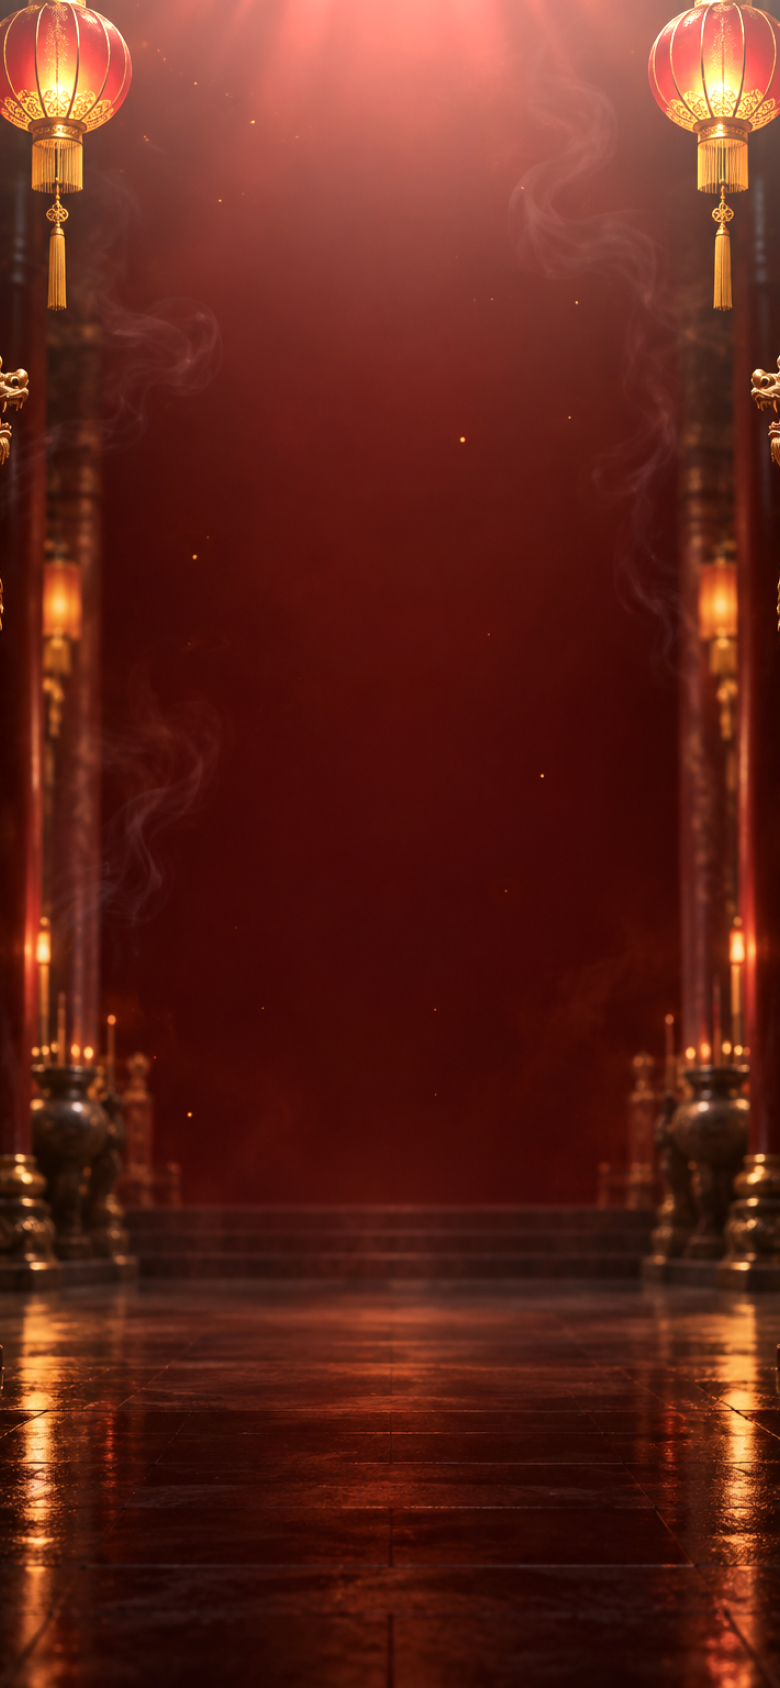
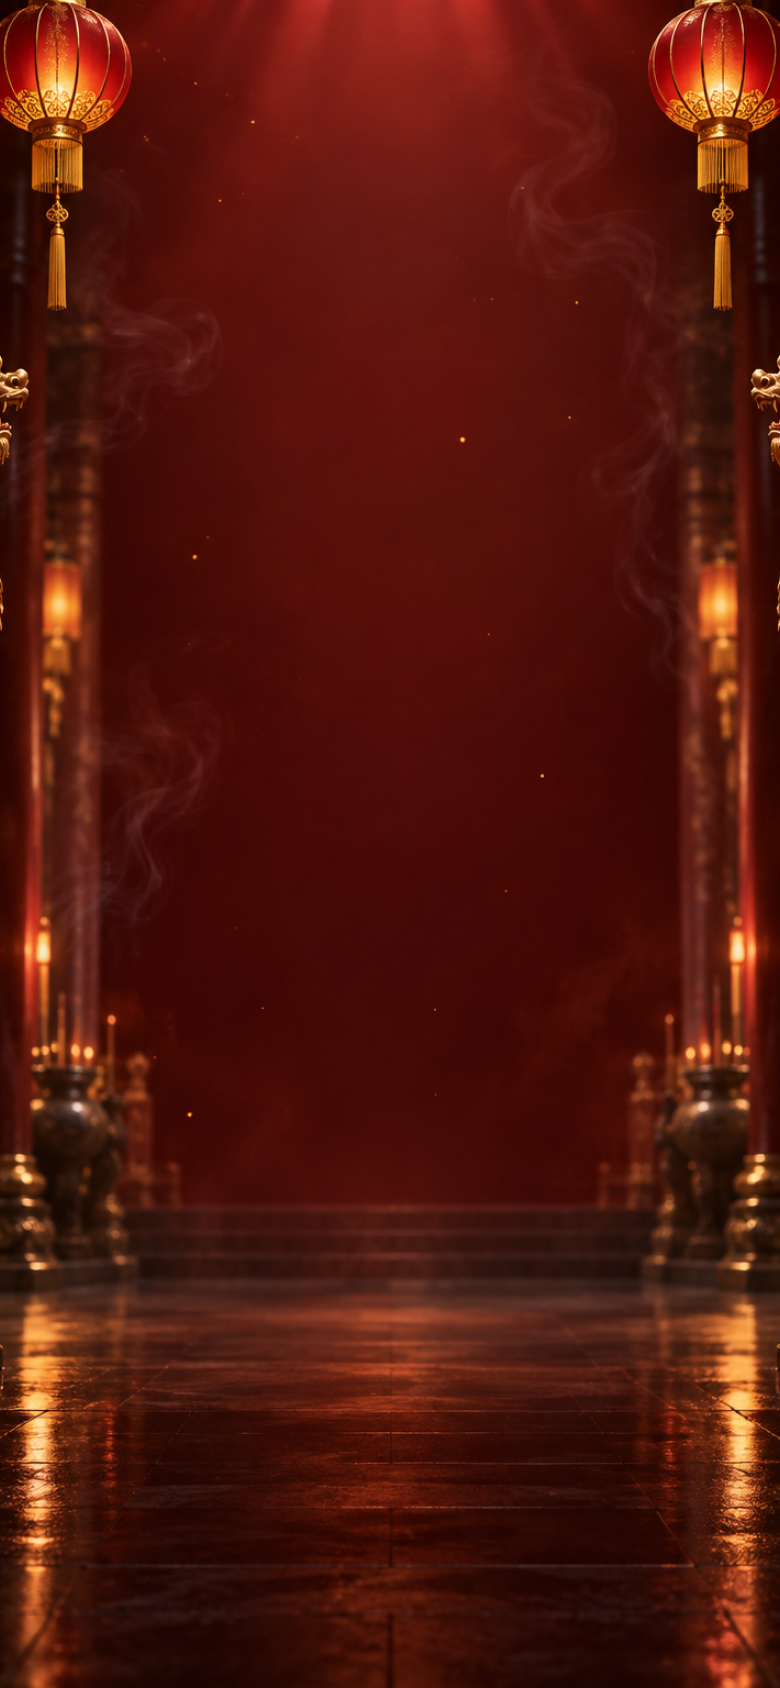
Hero: red-outlined gold type, LINE button, no navbar blur, whole emblem on phones
- h1 and his name follow Figma 61:1813 (2026-11-14): gold type (#f1d8b0 to
  #c49d5c) outlined about 5px in brand red. The outline is a ::before copy from
  data-text with a doubled stroke behind the gold, so the words appear once in the
  DOM and screen readers skip the copy.
- The LINE button (LineButton) sits under the h1: at the design's 107.5 / 413 in the
  frame from lg, centred under the h1 below lg.
- The navbar's backdrop blur is gone.
- Below lg the emblem is never cropped: the figure is a size container, the emblem
  is centred behind his head and shoulders, at most 94vw wide and never past the
  section's foot; the hero's minimum height now always fits the h1, the button
  and the whole figure.
- Service cards: the hairline beside each card's photo is removed.
- Services phone background: Ohm's new section2-bg-responsive.jpg (780x1688).

Claude-Session: https://claude.ai/code/session_01KqfduzWMfZYcr689BsFiDU

Changed region(s): [[0.0, 0.0, 1.0, 0.2156]]

diff --git a/app/styles/home.css b/app/styles/home.css
@@ -11,8 +11,11 @@
    stands on the foot. */
 .home-hero {
   --u: min(1px, 100vw / 1440);
+  --figure-w: min(108vw, 30rem);
   display: flex;
-  min-height: 35rem;
+  /* Below lg: never shorter than the h1, the button and the whole figure (short or
+     landscape screens scroll a little rather than crop the emblem). */
+  min-height: calc(20rem + var(--figure-w) * 600 / 547);
   height: 100vh;
   height: 100svh;
 }
@@ -27,12 +30,39 @@
   text-align: center;
 }
 
-/* Gold type: the design's gradient, light to dark across the line. */
+/* Gold type: the design's gradient, light to deep across the line. */
 .gold-text {
-  background-image: linear-gradient(101deg, var(--color-brand-gold) 0.85%, var(--color-gold-dim) 93.7%);
+  background-image: linear-gradient(90deg, var(--color-hero-gold-from), var(--color-hero-gold-to));
   -webkit-background-clip: text;
   background-clip: text;
   color: transparent;
+}
+
+/* The hero's h1 and name are outlined in brand red (Figma 84:2190 / 84:2191, about 5px
+   outside the 64px letters). The outline is the line drawn again behind the gold, with
+   a stroke twice that wide, so only its outer half shows; it comes from data-text, so
+   the words are in the page once and screen readers skip the copy. */
+.home-hero-line {
+  position: relative;
+  display: block;
+  isolation: isolate;
+}
+
+.home-hero-line::before {
+  content: attr(data-text) / "";
+  position: absolute;
+  inset: 0;
+  z-index: -1;
+  color: var(--color-brand-red);
+  -webkit-text-stroke: 0.16em var(--color-brand-red);
+  pointer-events: none;
+}
+
+/* The LINE button: under the h1, centred below lg, above the figure. */
+.home-hero-cta {
+  position: relative;
+  z-index: 1;
+  margin-top: 1.5rem;
 }
 
 .home-hero-title {
@@ -58,13 +88,16 @@
 }
 
 /* Portrait and emblem. The portrait is cropped below the vase by the section's foot. */
+/* The section's foot crops the portrait. The figure is a size container so the emblem
+   can be placed by its width: centred behind his head and shoulders (55% of the
+   figure's width down), no wider than the screen and no lower than the section's foot,
+   so the whole emblem always shows (Ohm, 2026-11-14). */
 .home-hero-figure {
   position: relative;
-  width: min(108vw, 30rem);
+  width: var(--figure-w);
   margin-top: auto;
   aspect-ratio: 547 / 600;
-  overflow-x: visible;
-  overflow-y: clip;
+  container-type: inline-size;
 }
 
 .home-hero-portrait {
@@ -78,9 +111,9 @@
    it stays still for people who prefer reduced motion. */
 .home-hero-emblem {
   position: absolute;
-  top: -6%;
+  top: calc(55cqw - min(54cqw, 47vw));
   left: 50%;
-  width: 125%;
+  width: min(108cqw, 94vw);
   transform: translateX(-50%);
 }
 
@@ -111,12 +144,11 @@
   font-size: clamp(1.375rem, 1rem + 1.8vw, 2.25rem);
   line-height: 1.05;
   text-align: left;
-  filter: drop-shadow(0 2px 6px rgb(0 0 0 / 0.45));
 }
 
 @media (width >= 40rem) {
-  .home-hero-figure {
-    width: min(70vw, 34rem);
+  .home-hero {
+    --figure-w: min(70vw, 34rem);
   }
 
   .home-hero-name {
@@ -164,6 +196,14 @@
     line-height: calc(86 * var(--u));
   }
 
+  /* Figma 84:2193: 52px tall, its left edge under the h1's, 413px down the frame. */
+  .home-hero-cta {
+    position: absolute;
+    top: calc(var(--y) + 413 * var(--u));
+    left: calc(var(--x) + 107.5 * var(--u));
+    margin: 0;
+  }
+
   /* From its place in the frame down to the section's foot, which crops the portrait. */
   .home-hero-figure {
     position: absolute;
@@ -190,7 +230,6 @@
     left: calc(var(--x) + 912 * var(--u));
     font-size: calc(40 * var(--u));
     line-height: calc(40 * var(--u));
-    filter: none;
   }
 }
 

diff --git a/components/sections/HomeHero.tsx b/components/sections/HomeHero.tsx
@@ -1,5 +1,6 @@
 import Image from "next/image";
 import { homeHero } from "@/content/home";
+import { LineButton } from "@/components/ui/LineButton";
 import { SectionBackdrop } from "@/components/ui/SectionBackdrop";
 import heroBackground from "@/public/images/home/v4/hero-bg.jpg";
 import heroBackgroundMobile from "@/public/images/home/v4/hero-bg-mobile.jpg";
@@ -10,11 +11,12 @@ import emblem from "@/public/images/home/v4/hero-emblem.png";
 // design's red veil and warm glow already in it) and his phone crop (780 wide); a dark
 // shade sits behind the headline. In the middle, อ.ดำรงชัย cut out in front of the club's
 // emblem (Ohm's full-resolution logo, screened at 60% and turning slowly), cropped by the
-// section's foot; the gold h1 at the top left and his name in gold beside him at the
-// lower right. From lg the design's 1440 frame scales with the width and sits in the
-// middle of the screen's height (app/styles/home.css); below lg (derived) the h1 sits
-// centred at the top, the portrait fills the rest of the screen and his name sits over
-// its lower right.
+// section's foot; the gold h1 at the top left with the LINE button under it, and his
+// name in gold beside him at the lower right. Both are outlined in brand red, as the
+// design draws them. From lg the design's 1440 frame scales with the width and sits in the
+// middle of the screen's height (app/styles/home.css); below lg (derived) the h1 and
+// the button sit centred at the top, the portrait stands on the foot with the whole
+// emblem behind him, and his name sits over its lower right.
 export function HomeHero() {
   return (
     <section
@@ -29,13 +31,14 @@ export function HomeHero() {
       />
       <div className="home-hero-stage">
         <div aria-hidden="true" className="home-hero-shade" />
-        <h1 id="hero-title" className="home-hero-title enter gold-text font-bold">
+        <h1 id="hero-title" className="home-hero-title enter font-bold">
           {homeHero.titleLines.map((line) => (
-            <span key={line} className="block">
-              {line}
+            <span key={line} data-text={line} className="home-hero-line">
+              <span className="gold-text">{line}</span>
             </span>
           ))}
         </h1>
+        <LineButton className="home-hero-cta enter [--i:1]" />
         <div className="home-hero-figure">
           <div aria-hidden="true" className="home-hero-emblem">
             <Image
@@ -55,10 +58,10 @@ export function HomeHero() {
             className="home-hero-portrait"
           />
         </div>
-        <p className="home-hero-name enter gold-text font-semibold [--i:1]">
+        <p className="home-hero-name enter font-semibold [--i:2]">
           {homeHero.nameLines.map((line) => (
-            <span key={line} className="block">
-              {line}
+            <span key={line} data-text={line} className="home-hero-line">
+              <span className="gold-text">{line}</span>
             </span>
           ))}
         </p>

diff --git a/components/ui/ServiceCard.tsx b/components/ui/ServiceCard.tsx
@@ -16,7 +16,7 @@ type ServiceCardProps = {
 // brand-red border and 8px corners, over the temple-hall photo. Copy on the left, 40px in
 // from the top, left and bottom: the white eyebrow and title, the gold summary and, at
 // the foot, the white "ดูรายละเอียด" and its arrow; the service's photo on the right,
-// 219px wide and the card's full height, behind a hairline. The design widened the card
+// 219px wide and the card's full height, edge to edge (no hairline: Ohm, 2026-11-14). The design widened the card
 // from 558 to 588 but kept its 324 + 15 + 219 insides, leaving a 30px strip after the
 // photo; here the copy takes those 30px so the photo stays flush with the edge. The
 // design draws the first card in its hover state (deep red #800000): hover and keyboard
@@ -61,7 +61,7 @@ export function ServiceCard({ service, moreLabel }: ServiceCardProps) {
         </span>
         <ArrowRightIcon className="absolute top-7 right-6 size-4 text-white sm:hidden" />
       </div>
-      <div className="relative aspect-[342/191] shrink-0 overflow-hidden bg-placeholder sm:aspect-auto sm:w-54.75 sm:border-l sm:border-hairline">
+      <div className="relative aspect-[342/191] shrink-0 overflow-hidden bg-placeholder sm:aspect-auto sm:w-54.75">
         <Image src={phonePhoto} alt={photo.alt} fill sizes="100vw" quality={85} className="object-cover sm:hidden" />
         <div className="absolute inset-0 hidden sm:block">
           <CardSlideshow photos={photos} sizes="219px" />

diff --git a/app/styles/tokens.css b/app/styles/tokens.css
@@ -84,7 +84,8 @@
   --color-surface-brand-line: rgb(4 199 85);
   --color-profile-overlay: rgb(0 0 0 / 0.5); /* the founder card, alpha kept at 0.5 */
   /* Red-and-gold sections (Figma 55:3535, 2026-11-13). */
-  --color-gold-dim: #948772; /* dark end of the gold type gradient (from brand-gold) */
+  --color-hero-gold-from: #f1d8b0; /* the hero's gold type, light end (Figma 84:2190) */
+  --color-hero-gold-to: #c49d5c; /* and its deep end */
   --color-hero-shade: rgb(82 0 0 / 0.75); /* shade behind the hero headline */
   --color-card-active: #800000; /* service card, hover and focus (the design's first card) */
   --color-card: rgb(0 0 0 / 0.5); /* service card at rest */

diff --git a/components/sections/HomeHeader.tsx b/components/sections/HomeHeader.tsx
@@ -42,7 +42,7 @@ export function HomeHeader() {
   };
 
   return (
-    <header className="absolute inset-x-0 top-0 z-30 px-5 pt-[max(1rem,env(safe-area-inset-top))] backdrop-blur-[2px] md:px-10 lg:py-6 xl:px-30">
+    <header className="absolute inset-x-0 top-0 z-30 px-5 pt-[max(1rem,env(safe-area-inset-top))] md:px-10 lg:py-6 xl:px-30">
       <nav aria-label={homeHeader.navLabel} className="mx-auto hidden max-w-wide lg:block">
         <div className="grid grid-cols-[1fr_auto_1fr] items-center gap-8 xl:gap-12">
           <ul className="flex items-center justify-end gap-8 xl:gap-12">
